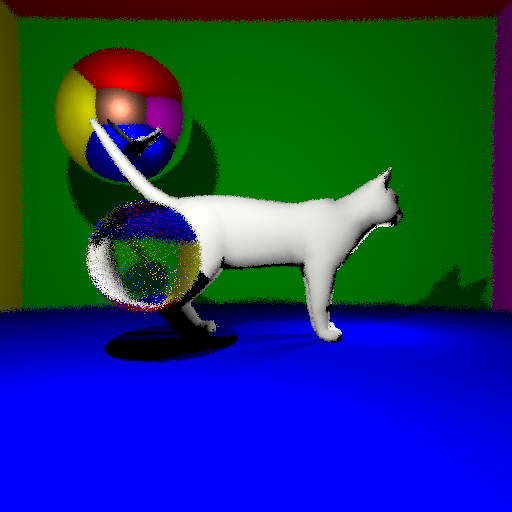
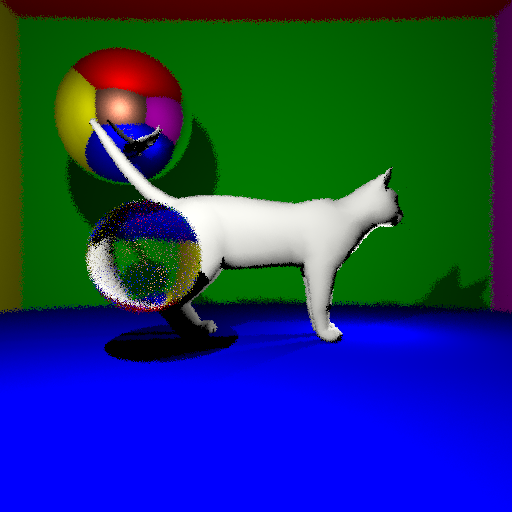
BVHtree traversal only visits boxes "closer" than best intersection

diff --git a/main.cpp b/main.cpp
@@ -210,7 +210,8 @@ public:
         return PlaneIntersection(true, t);
     }
 
-    bool intersect_box(Ray &r, double time = 0, Vector (*move)(double) = &constant_position){
+    double intersect_box(Ray &r, double time = 0, Vector (*move)(double) = &constant_position){
+        // Returns absolute distance to box or -1 if not intersected
         PlaneIntersection pxmin = intersect_plane(r, Vector(pmin[0], 0, 0) + move(time), Vector(1, 0, 0));
         PlaneIntersection pxmax = intersect_plane(r, Vector(pmax[0], 0, 0) + move(time), Vector(1, 0, 0));
         if (pxmin.flag == false){ // same as pxmax.flag==false
@@ -256,10 +257,10 @@ public:
         
         double mint1 = std::min(std::min(t1x, t1y), t1z);
         double maxt0 = std::max(std::max(t0x, t0y), t0z);
-        if (mint1 > maxt0){ // if mint1 < 0 the bounding box is fully behind the ray
-            return true;
+        if (mint1 > maxt0 && mint1 >= 0){ // if mint1 < 0 the bounding box is fully behind the ray
+            return std::min(abs(mint1), abs(maxt0));
         }
-        return false;
+        return -1;
     }
 
     void split_box(std::vector<TriangleIndices> &indices, std::vector<Vector> &vertices){
@@ -408,7 +409,10 @@ public:
         while (pile.size()>0){
             BoundingBox* current_box = pile.back();
             pile.pop_back();
-            if (current_box->intersect_box(r, time, movement)){
+            double abs_dist_to_box = current_box->intersect_box(r, time, movement);
+            if (abs_dist_to_box >= 0 && abs_dist_to_box < best_cast.intersect.t){
+                // We consider only "positive" (-1 is no intersection)
+                // We consider only boxes closer than the best intersection found by now
                 if (current_box->is_leaf){
                     Cast current_cast = intersect_aux(r, time, current_box->indexmin, current_box->indexmax);
                     if (current_cast.intersect.flag == true && current_cast.intersect.t < best_cast.intersect.t){
